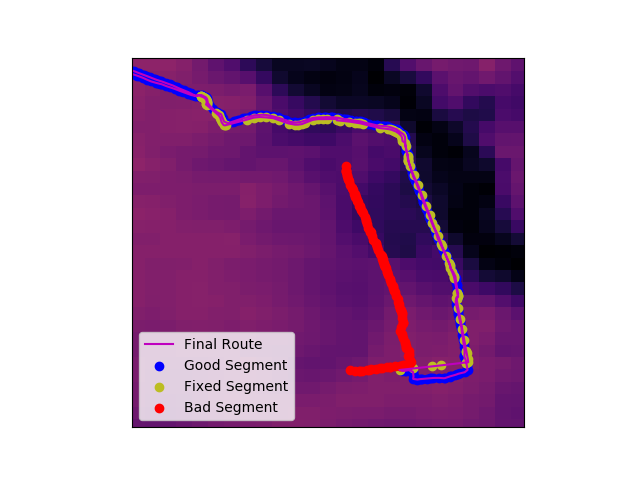
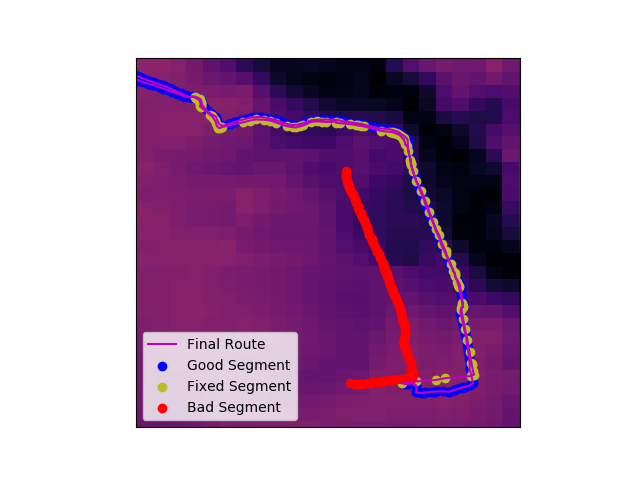
Added noise to coords, cleaned up code

Changed region(s): [[0.1875, 0.125, 0.8438, 0.9062], [0.5312, 0.3438, 0.6562, 0.625]]

diff --git a/main.py b/main.py
@@ -1,10 +1,10 @@
 import fitparse, gpxpy                        #Parsing files
 from math import sin, cos, atan2, sqrt, pi    #Calculating haversine distance
 from numpy import random                      #Add noise to pace
-import sys, requests, re, time                #System functions
 from osgeo import gdal                        #Parse elevation profiles
 import matplotlib.pyplot as plt               #Plotting
 from datetime import datetime                 #Timing
+import sys
 
 def convert_time(t):
     '''
@@ -48,6 +48,65 @@ def distance(lat, long):
     c = 2 * atan2(sqrt(a), sqrt(1 - a))
 
     return R * c
+
+def load_elevation(final_lat, final_long):
+    '''
+    Calculates the elevation at a given lat/long
+    point using 3DEP data.
+    '''
+
+    #Open 3DEP data downloaded from https://www.usgs.gov/core-science-systems/ngp/3dep
+    file_convention = "ned19_n40x00_w075x25_pa_northeast_2010"
+
+    #Grab elevation data
+    geo_ele = gdal.Open("data\\" + file_convention + "\\" + file_convention + "_thumb.jpg")
+    arr_ele = geo_ele.ReadAsArray() + 44 #Offset by about 44 for some reason
+
+    #Grab correspond lat, long data
+    geo_coords = gdal.Open("data\\" + file_convention + "\\" + file_convention + ".img")
+    arr_coords = geo_coords.ReadAsArray()
+
+    #Calculate extent to scale image
+    nrows, ncols = arr_coords.shape
+    x0, dx, dxdy, y0, dydx, dy = geo_coords.GetGeoTransform()
+    x1 = x0 + dx * ncols
+    y1 = y0 + dy * nrows
+
+    #Grab elevation for the new route
+    elevation = []
+    for i in range(len(final_long)):
+        long = final_long[i]
+        lat = final_lat[i]
+
+        #Since resolution is not 1 pixel, len(arr_ele) < len(long)
+        #So, scale indices of long/lat to fit size of arr_ele
+        long_index = (long - x0) / ((x1 - x0) / 300)
+        lat_index = (y0 - lat) / ((y0 - y1) / 385)
+        ele = arr_ele[int(lat_index)][int(long_index)]
+
+        elevation.append(ele)
+
+    #Plot elevation profile
+    if PLOT:
+        plt.imshow(arr_ele, cmap = "inferno", extent = [x0, x1, y1, y0])
+        plt.plot(final_long, final_lat, c = "m")
+        plt.scatter(good_long, good_lat, c = "b")
+        plt.scatter(route_long, route_lat, c = "tab:olive")
+        plt.scatter(bad_long, bad_lat, c = "r")
+        plt.legend(["Final Route", "Good Segment", "Fixed Segment", "Bad Segment"])
+        plt.tick_params(
+            axis = "both",
+            which = "both",
+            bottom = False,
+            top = False,
+            right = False,
+            left = False,
+            labelleft = False,
+            labelbottom = False)
+        plt.show()
+        sys.exit()
+
+    return elevation
 
 def parse_fit(file):
     '''
@@ -105,7 +164,7 @@ R = 6371E3
 TO_RADIANS = pi / 180
 TO_MILES = 1 / 1609.34
 TO_MINUTES = 1 / 60
-PLOT = True
+PLOT = False
 
 #Load our .fit files
 bad_file = fitparse.FitFile("988J0721.FIT")  #Bad 0.92 miles file
@@ -123,6 +182,15 @@ bad_lat, bad_long, bad_time = parse_fit(bad_file)
 good_lat, good_long, good_time = parse_fit(good_file)
 route_lat, route_long = parse_gpx(route)
 
+#Remove duplicate points in route
+indices = []
+for i in range(len(route_lat) - 1):
+    if (route_lat[i] == route_lat[i + 1]) and (route_long[i] == route_long[i + 1]):
+        indices.append(i)
+for i in indices:
+    del route_lat[i]
+    del route_long[i]
+
 #Set ending point of route to starting point of good file
 route_lat[-1] = good_lat[0]
 route_long[-1] = good_long[0]
@@ -133,6 +201,25 @@ bad_time_tot = (bad_time[0][-1] - bad_time[0][0]) + (bad_time[1][-1] - bad_time[
 #Now calculate the real total distance of the route
 route_distance = 0
 for i in range(len(route_lat) - 1):
+    #Calculate angle of points
+    x0 = route_long[i]
+    x1 = route_long[i + 1]
+    y0 = route_lat[i]
+    y1 = route_lat[i + 1]
+    theta = atan2(y1 - y0, x1 - x0)
+
+    #Convert to [0, 2pi] and scale to [0, pi/2]
+    if theta < 0:
+        theta += 2 * pi
+    theta = theta % (pi / 2)
+    percent = theta / (pi / 2)
+    
+    #Add noise to coordinates
+    route_lat[i] = route_lat[i] + random.normal(0, 2E-5) * (1 - percent)
+    route_lat[i + 1] = route_lat[i + 1] + random.normal(0, 2E-5) * (1 - percent)
+    route_long[i] = route_long[i] + random.normal(0, 2E-5) * percent
+    route_long[i + 1] = route_long[i + 1] + random.normal(0, 2E-5) * percent
+    
     route_distance += distance([route_lat[i], route_lat[i+1]],
                                [route_long[i], route_long[i+1]]) * TO_MILES
 
@@ -147,7 +234,7 @@ for i in range(len(route_lat) - 1):
                                 [route_long[i], route_long[i + 1]]) * TO_MILES
     route_time.append(route_time[-1] + current_pace * current_distance / TO_MINUTES)
 
-#Now add fake point to account for time stopped during new portion of run
+#Now add fake point to account for time stopped during new portion of run 
 route_lat.append(route_lat[-1])
 route_long.append(route_long[-1])
 missing_time = bad_time[1][-1] - bad_time[0][0] - bad_time_tot
@@ -155,56 +242,7 @@ route_time.append(route_time[-1] + missing_time)
 final_lat = route_lat + good_lat
 final_long = route_long + good_long
 final_time = route_time + good_time
-
-#Open 3DEP data downloaded from https://www.usgs.gov/core-science-systems/ngp/3dep
-file_convention = "ned19_n40x00_w075x25_pa_northeast_2010"
-
-#Grab elevation data
-geo_ele = gdal.Open("data\\" + file_convention + "\\" + file_convention + "_thumb.jpg")
-arr_ele = geo_ele.ReadAsArray() + 44 #Offset by about 44 for some reason
-
-#Grab correspond lat, long data
-geo_coords = gdal.Open("data\\" + file_convention + "\\" + file_convention + ".img")
-arr_coords = geo_coords.ReadAsArray()
-
-#Calculate extent to scale image
-nrows, ncols = arr_coords.shape
-x0, dx, dxdy, y0, dydx, dy = geo_coords.GetGeoTransform()
-x1 = x0 + dx * ncols
-y1 = y0 + dy * nrows
-
-#Grab elevation for the new route
-elevation = []
-for i in range(len(final_long)):
-    long = final_long[i]
-    lat = final_lat[i]
-
-    #Since resolution is not 1 pixel, len(arr_ele) < len(long)
-    #So, scale indices of long/lat to fit size of arr_ele
-    long_index = (long - x0) / ((x1 - x0) / 300)
-    lat_index = (y0 - lat) / ((y0 - y1) / 385)
-    ele = arr_ele[int(lat_index)][int(long_index)]
-
-    elevation.append(ele)
-
-#Plot elevation profile
-if PLOT:
-    plt.imshow(arr_ele, cmap = "inferno", extent = [x0, x1, y1, y0])
-    plt.plot(final_long, final_lat, c = "m")
-    plt.scatter(good_long, good_lat, c = "b")
-    plt.scatter(route_long, route_lat, c = "tab:olive")
-    plt.scatter(bad_long, bad_lat, c = "r")
-    plt.legend(["Final Route", "Good Segment", "Fixed Segment", "Bad Segment"])
-    plt.tick_params(
-        axis = "both",
-        which = "both",
-        bottom = False,
-        top = False,
-        right = False,
-        left = False,
-        labelleft = False,
-        labelbottom = False)
-    plt.show()
+elevation = load_elevation(final_lat, final_long)
 
 #Finally write to new .gpx file
 new_gpx = gpxpy.gpx.GPX()
